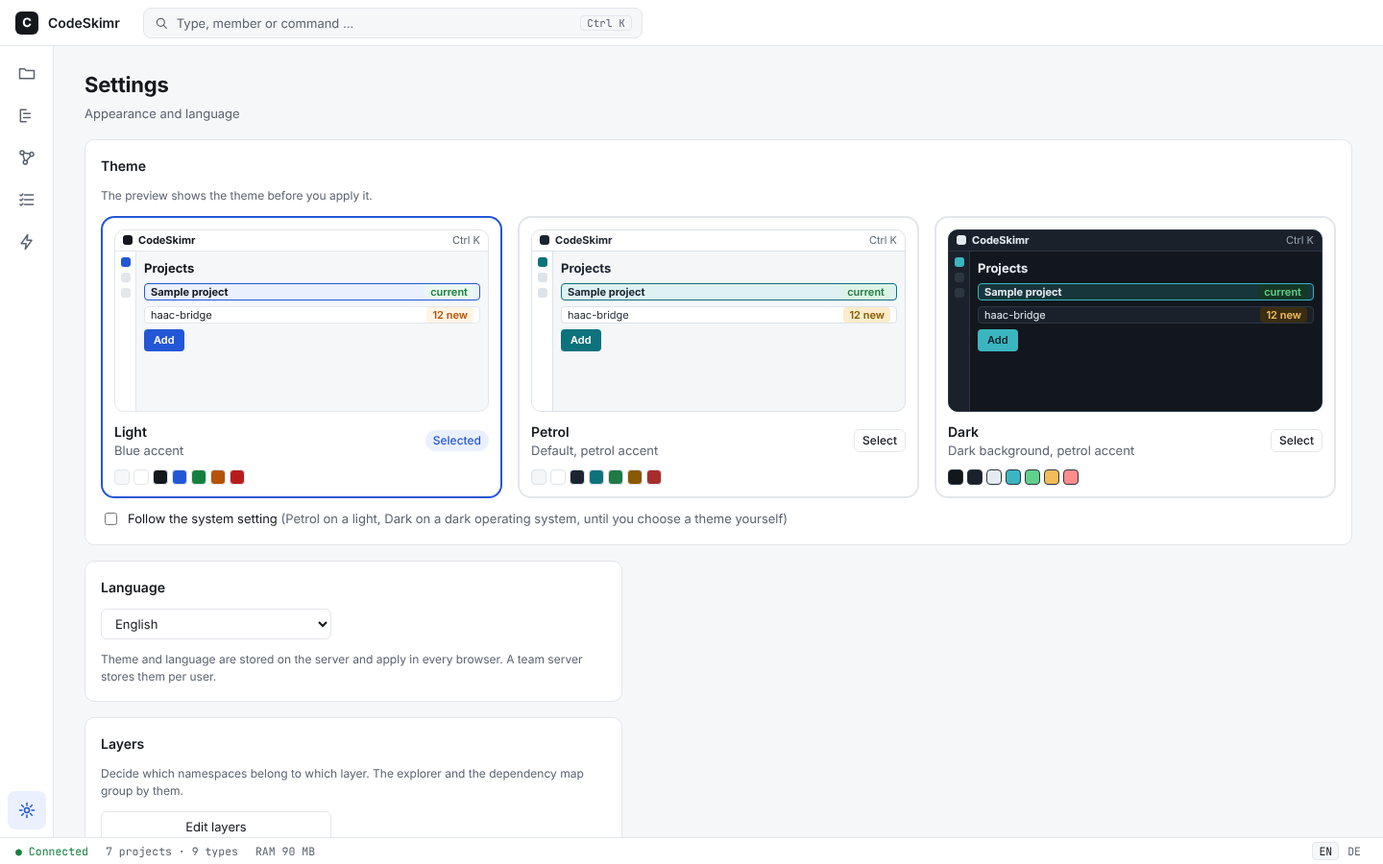
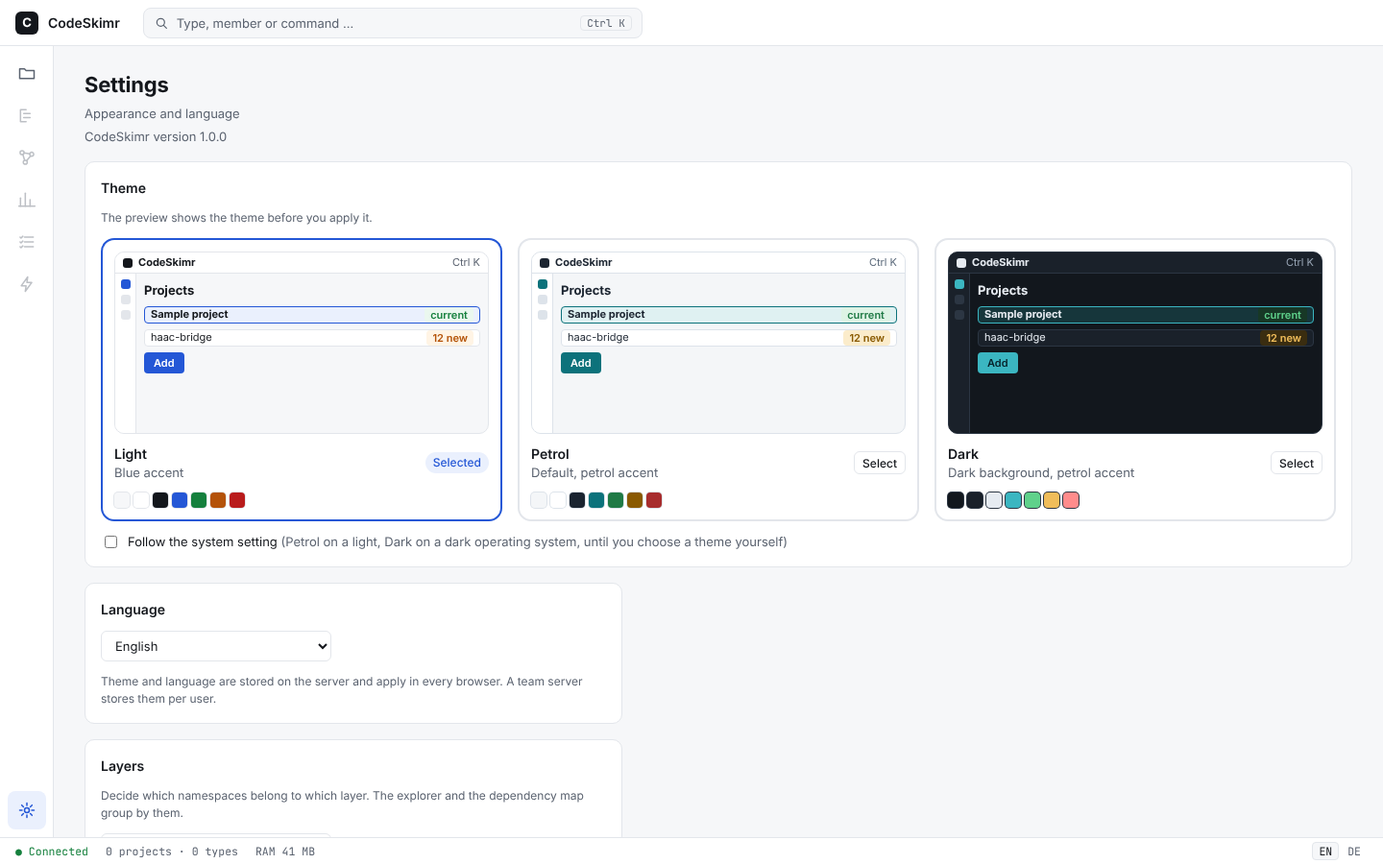
feat(ui): show the program version on the settings screen (#697)
<!-- claude-projects-attribution: {"github_login":"stacknoise"} -->
_Requested by **Anton** · [project
thread](https://claude.ai/code/project/chan_01BurfeyeHWcU615RsoB5poQ?thread=cmsg_01BurfeyeHWcU615RsoB5poQF3sCpakFDpofmNJyMDMRdh)_

## Was ändert sich und warum?

Bisher zeigte nur die Konsole, welche Version läuft (`codeskimr
--version`). Gerade beim Testen der rc-Versionen ist das im UI
hilfreich. Der Bildschirm „Einstellungen“ zeigt jetzt unter der
Überschrift eine Zeile „CodeSkimr-Version 1.0.0“ (Lücke 7 aus ADR 0092).

Closes #690

Technisch: Der Befehl `status.info` liefert zusätzlich `version`. ADR
0092 führt die Lücke jetzt unter „vor 1.0“ statt „nach 1.0“; deshalb das
Label `blueprint-change`.

## So probierst du es aus

CodeSkimr starten, links unten auf „Einstellungen“ klicken. Unter
„Darstellung und Sprache“ steht die Version.

## Screenshots (bei UI-Änderungen, mit Mock-Vergleich)

Mock 13 (`docs/mocks/Themes.dc.html`) hat die Zeile bekommen, die Bilder
`docs/screenshots/visual/settings-*.png` sind nach dem Zusammenführen
mit `main` neu erzeugt.

![Einstellungen mit Versionszeile,
Petrol](https://raw.githubusercontent.com/stacknoise/CodeSkimr/1920beb/docs/screenshots/visual/settings-petrol.png)

## Neue Fehlercodes

Keine.

## Neue Abhängigkeiten (mit einem Satz Begründung)

Keine.

## Benchmark-Delta

Keins betroffen.

## Definition of Done (Blueprint 18.4)

- [x] Regeln aus Abschnitt 3 eingehalten, CI grün
- [x] Tests auf der richtigen Ebene vorhanden
[…]

diff --git a/docs/mocks/Themes.dc.html b/docs/mocks/Themes.dc.html
@@ -88,7 +88,7 @@ tr.sel td{background:var(--accent-bg)}
 </header>
 <div class="body">
   <nav class="rail" aria-label="Ansichten"><a href="Main.dc.html" class="rb" aria-label="Projekte"><svg width="20" height="20" viewBox="0 0 24 24" fill="none" stroke="currentColor" stroke-width="1.8" stroke-linejoin="round" aria-hidden="true"><path d="M3 7h6l2 2h10v10H3z"/></svg></a><a href="Explorer.dc.html" class="rb" aria-label="Explorer"><svg width="20" height="20" viewBox="0 0 24 24" fill="none" stroke="currentColor" stroke-width="1.8" stroke-linejoin="round" aria-hidden="true"><path d="M4 5h7M8 10h8M8 15h8M4 20h7M4 5v15" stroke-linecap="round"/></svg></a><a href="Graph.dc.html" class="rb" aria-label="Abhängigkeiten"><svg width="20" height="20" viewBox="0 0 24 24" fill="none" stroke="currentColor" stroke-width="1.8" stroke-linejoin="round" aria-hidden="true"><circle cx="6" cy="6" r="2.5"/><circle cx="18" cy="8" r="2.5"/><circle cx="12" cy="18" r="2.5"/><path d="M8 7l8 1M7 8l4 8M17 10l-4 6"/></svg></a><a href="Scan.dc.html" class="rb" aria-label="Scans und Leistung"><svg width="20" height="20" viewBox="0 0 24 24" fill="none" stroke="currentColor" stroke-width="1.8" stroke-linejoin="round" aria-hidden="true"><path d="M13 3L5 14h6l-1 7 8-11h-6z"/></svg></a><div style="flex:1"></div><a href="Users.dc.html" class="rb" aria-label="Verwaltung"><svg width="20" height="20" viewBox="0 0 24 24" fill="none" stroke="currentColor" stroke-width="1.8" stroke-linejoin="round" aria-hidden="true"><path d="M12 3l8 3v6c0 4.5-3.4 8-8 9-4.6-1-8-4.5-8-9V6z"/><path d="M9 12l2 2 4-4" stroke-linecap="round"/></svg></a><a href="Themes.dc.html" class="rb on" aria-label="Einstellungen"><svg width="20" height="20" viewBox="0 0 24 24" fill="none" stroke="currentColor" stroke-width="1.8" stroke-linejoin="round" aria-hidden="true"><circle cx="12" cy="12" r="3"/><path d="M12 3v3M12 18v3M3 12h3M18 12h3M5.6 5.6l2.1 2.1M16.3 16.3l2.1 2.1M18.4 5.6l-2.1 2.1M7.7 16.3l-2.1 2.1" stroke-linecap="round"/></svg></a></nav>
-  <main class="main"><div class="row" style="align-items:flex-end"><div><h1>Einstellungen</h1><p class="sub">Darstellung und Sprache</p></div><div class="row" style="margin-left:auto"></div></div>
+  <main class="main"><div class="row" style="align-items:flex-end"><div><h1>Einstellungen</h1><p class="sub">Darstellung und Sprache</p><p class="sub">CodeSkimr-Version 1.0.0</p></div><div class="row" style="margin-left:auto"></div></div>
 <div class="panel pad" style="display:flex;flex-direction:column;gap:14px">
  <div><div class="h2">Theme</div><p class="note">Gilt für dein Konto auf jedem Gerät. Die Vorschau zeigt das Theme, bevor du es übernimmst.</p></div>
  <div class="grid" style="grid-template-columns:repeat(auto-fit,minmax(260px,1fr))">

diff --git a/web/src/features/settings/SettingsScreen.test.tsx b/web/src/features/settings/SettingsScreen.test.tsx
@@ -2,6 +2,8 @@ import { fireEvent, render, screen } from "@solidjs/testing-library";
 import { beforeEach, describe, expect, it, vi } from "vitest";
 import { setLanguage } from "../../shared/i18n/i18n";
 import { currentPath } from "../../app/router";
+import { answer, serve, useServerSession } from "../../tests/commands";
+import { refreshStatus } from "../status/status";
 import { SettingsScreen } from "./SettingsScreen";
 
 beforeEach(() => {
@@ -50,5 +52,16 @@ describe("SettingsScreen", () => {
     render(() => <SettingsScreen />);
     fireEvent.click(screen.getByRole("button", { name: "Edit layers" }));
     expect(currentPath()).toBe("/layers");
+  });
+});
+
+describe("the version on the settings screen", () => {
+  useServerSession();
+
+  it("is the one that codeskimr --version prints", async () => {
+    serve({ "status.info": () => answer({ version: "1.2.3" }) });
+    await refreshStatus();
+    render(() => <SettingsScreen />);
+    expect(screen.getByText("CodeSkimr version 1.2.3")).toBeInTheDocument();
   });
 });

diff --git a/web/src/features/settings/SettingsScreen.tsx b/web/src/features/settings/SettingsScreen.tsx
@@ -13,6 +13,7 @@ import { ThemeCard } from "./ThemeCard";
 import { LANGUAGES } from "../../shared/i18n/consts";
 import { CODES_ROUTE, LAYERS_ROUTE } from "../../app/consts";
 import { navigate } from "../../app/router";
+import { statusInfo } from "../status/status";
 
 /** The theme cards and the follow-system switch. */
 function ThemePanel() {
@@ -122,6 +123,11 @@ export function SettingsScreen() {
       <header>
         <h1>{t(I18N_KEYS.SETTINGS_TITLE)}</h1>
         <p class={styles.sub}>{t(I18N_KEYS.SETTINGS_SUBTITLE)}</p>
+        <Show when={statusInfo()?.version}>
+          {(version) => (
+            <p class={styles.sub}>{t(I18N_KEYS.SETTINGS_VERSION, { version: version() })}</p>
+          )}
+        </Show>
       </header>
       <ThemePanel />
       <LanguagePanel />

diff --git a/web/src/features/status/types.ts b/web/src/features/status/types.ts
@@ -2,6 +2,8 @@ import type { BudgetTargets } from "../scan/types";
 
 /** The output of `status.info`. */
 export interface StatusInfo {
+  /** The version of the program, as `codeskimr --version` prints it. */
+  version: string;
   /** Milliseconds from the start of the program until the server answered. */
   startup_ms: number | null;
   /** Memory of the program in megabytes. */

diff --git a/web/src/shared/i18n/keys.ts b/web/src/shared/i18n/keys.ts
@@ -875,6 +875,7 @@ export const I18N_KEYS = {
   NAV_NEEDS_PROJECT: "nav-needs-project",
   SETTINGS_TITLE: "settings-title",
   SETTINGS_SUBTITLE: "settings-subtitle",
+  SETTINGS_VERSION: "settings-version",
   SETTINGS_THEME_TITLE: "settings-theme-title",
   SETTINGS_THEME_NOTE: "settings-theme-note",
   SETTINGS_THEME_NAME_HELL: "settings-theme-name-hell",

diff --git a/crates/app/src/ui_commands/status.rs b/crates/app/src/ui_commands/status.rs
@@ -12,7 +12,9 @@ use codeskimr_application::registry::{Command, CommandDescriptor, CommandId, Req
 use codeskimr_domain::Permission;
 use serde::Serialize;
 
-use super::consts::{BYTES_PER_MEGABYTE, STATUS_DESCRIPTION, STATUS_INFO, STATUS_TITLE};
+use super::consts::{
+    BYTES_PER_MEGABYTE, PROGRAM_VERSION, STATUS_DESCRIPTION, STATUS_INFO, STATUS_TITLE,
+};
 
 static STARTED: OnceLock<Instant> = OnceLock::new();
 static READY: OnceLock<Duration> = OnceLock::new();
@@ -32,6 +34,8 @@ pub fn mark_ready() {
 /// The measurements of the status bar.
 #[derive(Debug, Clone, Copy, PartialEq, Eq, Serialize)]
 pub struct StatusOut {
+    /// The version of the program, the one `codeskimr --version` prints (ADR 0092, gap 7).
+    pub version: &'static str,
     /// Milliseconds from the start of the program until the server answered; `None` if it was
     /// not measured (the server of a test).
     pub startup_ms: Option<u64>,
@@ -113,6 +117,7 @@ impl Command for StatusInfo {
     fn execute(&self, request: Request<'_, Self>) -> Result<StatusOut, CodedError> {
         access::require(request.principal, Permission::Read)?;
         Ok(StatusOut {
+            version: PROGRAM_VERSION,
             startup_ms: startup_ms(),
             memory_mb: memory_mb(),
             budgets: self.budgets,

diff --git a/crates/app/src/ui_commands/consts.rs b/crates/app/src/ui_commands/consts.rs
@@ -112,6 +112,8 @@ pub const STATUS_INFO: &str = "status.info";
 pub const STATUS_TITLE: &str = i18n::COMMAND_STATUS_INFO_TITLE;
 /// Description key of `status.info`.
 pub const STATUS_DESCRIPTION: &str = i18n::COMMAND_STATUS_INFO_DESCRIPTION;
+/// The version of the program, as `codeskimr --version` prints it.
+pub const PROGRAM_VERSION: &str = env!("CARGO_PKG_VERSION");
 /// Bytes in a megabyte, for the memory shown in the status bar.
 pub const BYTES_PER_MEGABYTE: u64 = 1_048_576;
 

diff --git a/crates/app/src/ui_commands/tests.rs b/crates/app/src/ui_commands/tests.rs
@@ -702,6 +702,7 @@ fn the_status_reports_the_memory_of_the_program() {
     assert!(status["memory_mb"].as_u64().unwrap() > 0);
     assert!(status.get("startup_ms").is_some());
     assert!(status["workers"].as_u64().unwrap() >= 1);
+    assert_eq!(status["version"], env!("CARGO_PKG_VERSION"));
     assert_eq!(status["budgets"]["cold_start"], 300);
     assert_eq!(status["budgets"]["incremental_rescan"], 300);
 }

diff --git a/docs/server.md b/docs/server.md
@@ -121,7 +121,7 @@ The server holds at most 256 connections; a further client waits in the backlog 
 
 ## Known limits
 
-- The commands of the UI are registered in `crates/app/src/ui_commands/` (`command_api`): `projects.list` (read), `projects.add` (register_project, scan), `projects.rescan` (scan), `projects.cancel` (scan), `projects.remove` (register_project), `projects.folder_dialog` (read) and `projects.pick_folder` (register_project), `credentials.list` (read_source, the token), `credentials.set` and `credentials.delete` (both register_project), `explorer.outline` and `explorer.symbol` (both read), `search.query` (read), `status.info` (read), `usages.query` (read), `explorer.source` (read_source), `usages.code` (read_source), `graph.layers` (read), `layers.get` (read), `layers.set` (manage), and the annotation and alert commands of ADR 0068 (`annotations.*` and `alerts.*`, see below). Feature packages add theirs there. `layers.get` takes a project id and returns `editable` (a folder project), `scanned`, `layers` (`name`, `namespaces`) and `namespaces` of the newest scan (`name`, `types`, `layer`); `layers.set` takes a project id and the full list of `layers`, replaces the `[[layers]]` tables of the folder's `.codeskimr.toml` (ADR 0065) and answers the number of layers; it refuses a Git project with `PRJ-101`, invalid layers with `CFG-101`, an unreadable or invalid file with `CFG-102` and a failed write with `CFG-104`; the layers apply from the next scan. `explorer.outline` takes a project id and returns the layers, namespaces and types of its newest snapshot (the layers of the project; types that belong to none come last with an empty layer name). The answer is short on purpose (#651): a namespace names its most common `language` once, and a type or the file `module` of a namespace leaves out `language` when it is that one, and `qualified_name` when it is the namespace name, a dot and its name (for the module: the namespace name itself; an empty namespace: the name alone); `types` and `holders` are left out when empty and `file` when false. A client puts the fields back by these rules; a field that is present always counts; `explorer.symbol` takes a project id and a symbol id and returns the symbol with `layer` (the name of the layer of the project that owns it, `null` if none does), breadcrumb, metrics (with a rating against the configured thresholds) and member table. An unknown symbol is `MCP-202`. A project without a scan gives `explorer.outline` an empty outline with `snapshot: null`, and `explorer.symbol` the error `MCP-203`. `projects.add` takes an absolute folder path or a Git address without credentials, and for a Git source optionally `credential`, the name of a stored login (`credentials.set`; a folder, an empty name or the installation token gives `PRJ-101`); `projects.rescan` a project id; both take the optional `level2` (`false` scans level 1 only) and answer `level2` with `state` (`started`, `not_started` or `not_requested`) and `reason` (`not_permitted`, `not_confirmed`, `busy` or `paused`; ADR 0072): the call returns after level 1 and, if level 2 started, a background task continues with it, still counted as a running scan (`PRJ-302` for a second scan, `projects.cancel` stops it and keeps level 1). The permission and the consent are checked again when the run starts; at most `level2.max_parallel_runs` runs go on at the same time and the same project waits `level2.ui_cooldown_seconds` after a run. Both run the scan on the thread of the call, publish progress on the event bus of the WebSocket and refuse a second scan of the same project with `PRJ-302`. `projects.list` gives every project the files its newest scan left out as `left_out` (`path`, `code`, `kept`; at most `scan.max_left_out_listed`) and `left_out_more` (how many more there were; ADR 0085), and every language of a project `files`, `loc`, `symbols` (the symbols of its files in the newest snapshot) and `tier` (`full` or `basic`, read from the manifest of the installed pack, `null` if there is none). `search.query` takes a project id and a text and returns at most 50 hits of the newest scan, best first, each with kind, qualified name, file, the enclosing symbol and the `project` and `project_name` it belongs to, `files` (at most 10 files whose path matches the text, best first: `path`, `loc`, `first_type` and the project; only files that declare a type) and `entries`, the number of symbols the scan holds (`null` before the first scan); a project without a scan or an empty text gives empty lists. With `all_projects: true` it searches the newest scan of every registered project (`project` is then ignored; projects without a scan are skipped), and each project gets a share of the 50 hits, at least 5. `explorer.source` takes a project id and a symbol id (type or member) and returns the lines of its declaration as they are in the project folder now (`path`, `first_line`, `last_line`, `lines`, `truncated` after 400 lines, `available`) and `spans`: the places in those lines where a symbol is named (`line` counted from 0 within `lines`, `start` and `end` in UTF-16 units, `symbol`), taken from the one-line references of the scan; a place that does not fit its line, because the file changed since the scan, is left out; at most 4000; and `tokens`, the runs of the lines that have a syntax colour (`line`, `start`, `end` as for `spans`, `class` one of `comment`, `string`, `number`, `keyword`, `type`, `function`, `attribute`; ADR 0064; empty for a language without `highlights.scm`). It needs `read_source` and the token (ADR 0035); a Git project answers `available: false` without lines; a file that is gone, outside the project folder or not a file is `SRC-201`, a file over 4 MiB `SRC-501`. `graph.layers` takes a project id and an optional `level` (`layers`, the default, `namespaces` or `types`, see `docs/graph-layout.md`) and, for the level `namespaces`, an optional `depth` (merge the namespaces into their first `depth` segments; 0 or left out keeps them all) and returns the dependency map of its newest snapshot as a picture: `boxes` (one per layer or, on the level `namespaces`, per namespace, with `name`, `x`, `y`, `width`, `height`, `rank`, `order`, `layer` and `types`), `links` (`from`, `to`, `count`, `violates_layering`, `in_cycle`), `bands` (the stripe of every layer row) and the size of the picture (`width`, `height`). The layers keep the order of the project's `layers` setting, outer layers first, one row each (ADR 0031); a layer that only the scan's edges name is added after them. On the level `types` the input needs `focus`, the symbol id of a type: the answer has three rows of boxes (the types that use the focus on top, the focus in the middle, the types it uses below; at most 12 per side, the rest is counted in `focus.users_more` and `focus.used_more`), each with `symbol`, links from the users to the focus and from the focus to what it uses, counted by references; references inside the type are left out, and `bands` is empty. A missing focus or a symbol that is no type is `MCP-202`. A project without a scan or without layers gives an empty picture (`snapshot: null` before the first scan). The positions come from the layered layout in Rust (`docs/graph-layout.md`); spacing and box size are the `[graph]` settings. `usages.query` takes a project id, a symbol id, `way` (`both`, `incoming` or `outgoing`), `depth` (0 means as deep as `mcp.max_depth` allows, larger values are cut to it) and `include_tests`, and returns the symbol, the `incoming` and `outgoing` walks (at most 500 hits each; `null` for a direction that was not asked), a `summary` of the direct usages, the `impact` of a change (symbols reached, layers, public interfaces) and `level2`. Every hit carries `verified`: `true` only if level 2 produced it (an indexer of ADR 0033 ran, with the owner's confirmation, and checked its file); `summary` counts verified and unchecked hits apart, `probable` counts the unchecked ones that level 1 itself is unsure about, and `level2` is `"active"` if at least one direct usage of the answer is verified and `"unavailable"` otherwise, which tells the UI that level 2 checked none of the hits of this symbol. Hits are sorted verified first. Errors as for `explorer.symbol`: `MCP-202` for an unknown symbol, `MCP-203` without a scan. The command needs only the read right, because it hands out no source text. `usages.code` takes the same input and returns `available` and `lines` (`path`, `line`, `text`): the code line of each distinct place of the first 200 hits of both walks, read from the project folder as it is now, trimmed and cut at 240 characters. It needs `read_source` and the token (ADR 0035); the paths come from the index, never from the caller; a Git project answers `available: false`; a place whose file or line is gone is left out. `status.info` takes nothing and returns `startup_ms` (program start until the server answers, `null` if not measured) and `memory_mb` (physical memory of the process, `null` if the system does not tell), `budgets` and `workers` (threads of the analyze stage: one per core the system offers). `projects.cancel` takes a project id and asks its running scan to stop at the next stage boundary; it answers `{ "cancelled": true }`, or `false` if no scan of the project is running (or it has not started yet). The scan then ends without a snapshot: the stream carries `scan_stopped` with `reason: cancelled`, and the call that started the scan (`projects.add`, `projects.rescan`) answers `PRJ-303`. `projects.folder_dialog` takes nothing and answers `{ "available": bool }`: whether the app can show the folder dialog of the operating system on its machine (Windows and macOS; ADR 0075). `projects.pick_folder` takes nothing, shows that dialog, waits and answers `{ "path": "<folder>" }`, or `{ "path": null }` if the user cancelled, no dialog exists here or another one is open; it needs the right to register projects and the token, like `projects.add`, and is no MCP tool. It reads nothing in the folder; the path is only text for `projects.add`. `projects.remove` takes a project id and deletes the project with everything the app stored about it, in one database transaction: all snapshots with their files, symbols, references, metrics and read models, the layers, the level 2 confirmation, the tool reports and the annotations with their alerts; it answers `{ "project": <id> }`. It needs the right to register projects and the token, like `projects.add`, and is no MCP tool. It never touches the files of a folder project. For a Git project it deletes the clone that the app made in its own data folder (`git/<hash of address and branch>`); if the clone cannot be deleted, the project is gone anyway and the failure is logged. Stored credentials stay, because other projects may use the same login. An unknown id is `PRJ-201`; while a scan of the project runs (a level 2 run is part of a scan) it is refused with `PRJ-302`, and while it runs no scan of the project can start. After it, the project can be registered again; it then starts with a full scan. A relative folder path is refused with `PRJ-101`, so the working folder of the server never decides what is scanned.
+- The commands of the UI are registered in `crates/app/src/ui_commands/` (`command_api`): `projects.list` (read), `projects.add` (register_project, scan), `projects.rescan` (scan), `projects.cancel` (scan), `projects.remove` (register_project), `projects.folder_dialog` (read) and `projects.pick_folder` (register_project), `credentials.list` (read_source, the token), `credentials.set` and `credentials.delete` (both register_project), `explorer.outline` and `explorer.symbol` (both read), `search.query` (read), `status.info` (read), `usages.query` (read), `explorer.source` (read_source), `usages.code` (read_source), `graph.layers` (read), `layers.get` (read), `layers.set` (manage), and the annotation and alert commands of ADR 0068 (`annotations.*` and `alerts.*`, see below). Feature packages add theirs there. `layers.get` takes a project id and returns `editable` (a folder project), `scanned`, `layers` (`name`, `namespaces`) and `namespaces` of the newest scan (`name`, `types`, `layer`); `layers.set` takes a project id and the full list of `layers`, replaces the `[[layers]]` tables of the folder's `.codeskimr.toml` (ADR 0065) and answers the number of layers; it refuses a Git project with `PRJ-101`, invalid layers with `CFG-101`, an unreadable or invalid file with `CFG-102` and a failed write with `CFG-104`; the layers apply from the next scan. `explorer.outline` takes a project id and returns the layers, namespaces and types of its newest snapshot (the layers of the project; types that belong to none come last with an empty layer name). The answer is short on purpose (#651): a namespace names its most common `language` once, and a type or the file `module` of a namespace leaves out `language` when it is that one, and `qualified_name` when it is the namespace name, a dot and its name (for the module: the namespace name itself; an empty namespace: the name alone); `types` and `holders` are left out when empty and `file` when false. A client puts the fields back by these rules; a field that is present always counts; `explorer.symbol` takes a project id and a symbol id and returns the symbol with `layer` (the name of the layer of the project that owns it, `null` if none does), breadcrumb, metrics (with a rating against the configured thresholds) and member table. An unknown symbol is `MCP-202`. A project without a scan gives `explorer.outline` an empty outline with `snapshot: null`, and `explorer.symbol` the error `MCP-203`. `projects.add` takes an absolute folder path or a Git address without credentials, and for a Git source optionally `credential`, the name of a stored login (`credentials.set`; a folder, an empty name or the installation token gives `PRJ-101`); `projects.rescan` a project id; both take the optional `level2` (`false` scans level 1 only) and answer `level2` with `state` (`started`, `not_started` or `not_requested`) and `reason` (`not_permitted`, `not_confirmed`, `busy` or `paused`; ADR 0072): the call returns after level 1 and, if level 2 started, a background task continues with it, still counted as a running scan (`PRJ-302` for a second scan, `projects.cancel` stops it and keeps level 1). The permission and the consent are checked again when the run starts; at most `level2.max_parallel_runs` runs go on at the same time and the same project waits `level2.ui_cooldown_seconds` after a run. Both run the scan on the thread of the call, publish progress on the event bus of the WebSocket and refuse a second scan of the same project with `PRJ-302`. `projects.list` gives every project the files its newest scan left out as `left_out` (`path`, `code`, `kept`; at most `scan.max_left_out_listed`) and `left_out_more` (how many more there were; ADR 0085), and every language of a project `files`, `loc`, `symbols` (the symbols of its files in the newest snapshot) and `tier` (`full` or `basic`, read from the manifest of the installed pack, `null` if there is none). `search.query` takes a project id and a text and returns at most 50 hits of the newest scan, best first, each with kind, qualified name, file, the enclosing symbol and the `project` and `project_name` it belongs to, `files` (at most 10 files whose path matches the text, best first: `path`, `loc`, `first_type` and the project; only files that declare a type) and `entries`, the number of symbols the scan holds (`null` before the first scan); a project without a scan or an empty text gives empty lists. With `all_projects: true` it searches the newest scan of every registered project (`project` is then ignored; projects without a scan are skipped), and each project gets a share of the 50 hits, at least 5. `explorer.source` takes a project id and a symbol id (type or member) and returns the lines of its declaration as they are in the project folder now (`path`, `first_line`, `last_line`, `lines`, `truncated` after 400 lines, `available`) and `spans`: the places in those lines where a symbol is named (`line` counted from 0 within `lines`, `start` and `end` in UTF-16 units, `symbol`), taken from the one-line references of the scan; a place that does not fit its line, because the file changed since the scan, is left out; at most 4000; and `tokens`, the runs of the lines that have a syntax colour (`line`, `start`, `end` as for `spans`, `class` one of `comment`, `string`, `number`, `keyword`, `type`, `function`, `attribute`; ADR 0064; empty for a language without `highlights.scm`). It needs `read_source` and the token (ADR 0035); a Git project answers `available: false` without lines; a file that is gone, outside the project folder or not a file is `SRC-201`, a file over 4 MiB `SRC-501`. `graph.layers` takes a project id and an optional `level` (`layers`, the default, `namespaces` or `types`, see `docs/graph-layout.md`) and, for the level `namespaces`, an optional `depth` (merge the namespaces into their first `depth` segments; 0 or left out keeps them all) and returns the dependency map of its newest snapshot as a picture: `boxes` (one per layer or, on the level `namespaces`, per namespace, with `name`, `x`, `y`, `width`, `height`, `rank`, `order`, `layer` and `types`), `links` (`from`, `to`, `count`, `violates_layering`, `in_cycle`), `bands` (the stripe of every layer row) and the size of the picture (`width`, `height`). The layers keep the order of the project's `layers` setting, outer layers first, one row each (ADR 0031); a layer that only the scan's edges name is added after them. On the level `types` the input needs `focus`, the symbol id of a type: the answer has three rows of boxes (the types that use the focus on top, the focus in the middle, the types it uses below; at most 12 per side, the rest is counted in `focus.users_more` and `focus.used_more`), each with `symbol`, links from the users to the focus and from the focus to what it uses, counted by references; references inside the type are left out, and `bands` is empty. A missing focus or a symbol that is no type is `MCP-202`. A project without a scan or without layers gives an empty picture (`snapshot: null` before the first scan). The positions come from the layered layout in Rust (`docs/graph-layout.md`); spacing and box size are the `[graph]` settings. `usages.query` takes a project id, a symbol id, `way` (`both`, `incoming` or `outgoing`), `depth` (0 means as deep as `mcp.max_depth` allows, larger values are cut to it) and `include_tests`, and returns the symbol, the `incoming` and `outgoing` walks (at most 500 hits each; `null` for a direction that was not asked), a `summary` of the direct usages, the `impact` of a change (symbols reached, layers, public interfaces) and `level2`. Every hit carries `verified`: `true` only if level 2 produced it (an indexer of ADR 0033 ran, with the owner's confirmation, and checked its file); `summary` counts verified and unchecked hits apart, `probable` counts the unchecked ones that level 1 itself is unsure about, and `level2` is `"active"` if at least one direct usage of the answer is verified and `"unavailable"` otherwise, which tells the UI that level 2 checked none of the hits of this symbol. Hits are sorted verified first. Errors as for `explorer.symbol`: `MCP-202` for an unknown symbol, `MCP-203` without a scan. The command needs only the read right, because it hands out no source text. `usages.code` takes the same input and returns `available` and `lines` (`path`, `line`, `text`): the code line of each distinct place of the first 200 hits of both walks, read from the project folder as it is now, trimmed and cut at 240 characters. It needs `read_source` and the token (ADR 0035); the paths come from the index, never from the caller; a Git project answers `available: false`; a place whose file or line is gone is left out. `status.info` takes nothing and returns `version` (the version of the program, as `codeskimr --version` prints it), `startup_ms` (program start until the server answers, `null` if not measured) and `memory_mb` (physical memory of the process, `null` if the system does not tell), `budgets` and `workers` (threads of the analyze stage: one per core the system offers). `projects.cancel` takes a project id and asks its running scan to stop at the next stage boundary; it answers `{ "cancelled": true }`, or `false` if no scan of the project is running (or it has not started yet). The scan then ends without a snapshot: the stream carries `scan_stopped` with `reason: cancelled`, and the call that started the scan (`projects.add`, `projects.rescan`) answers `PRJ-303`. `projects.folder_dialog` takes nothing and answers `{ "available": bool }`: whether the app can show the folder dialog of the operating system on its machine (Windows and macOS; ADR 0075). `projects.pick_folder` takes nothing, shows that dialog, waits and answers `{ "path": "<folder>" }`, or `{ "path": null }` if the user cancelled, no dialog exists here or another one is open; it needs the right to register projects and the token, like `projects.add`, and is no MCP tool. It reads nothing in the folder; the path is only text for `projects.add`. `projects.remove` takes a project id and deletes the project with everything the app stored about it, in one database transaction: all snapshots with their files, symbols, references, metrics and read models, the layers, the level 2 confirmation, the tool reports and the annotations with their alerts; it answers `{ "project": <id> }`. It needs the right to register projects and the token, like `projects.add`, and is no MCP tool. It never touches the files of a folder project. For a Git project it deletes the clone that the app made in its own data folder (`git/<hash of address and branch>`); if the clone cannot be deleted, the project is gone anyway and the failure is logged. Stored credentials stay, because other projects may use the same login. An unknown id is `PRJ-201`; while a scan of the project runs (a level 2 run is part of a scan) it is refused with `PRJ-302`, and while it runs no scan of the project can start. After it, the project can be registered again; it then starts with a full scan. A relative folder path is refused with `PRJ-101`, so the working folder of the server never decides what is scanned.
 - No OpenAPI document and no generated TypeScript client yet (needs `utoipa` and real command types, see ADR 0024).
 - The UI is part of the program: `build.rs` of the `codeskimr` crate embeds the files of `web/dist` as they are when the program is built (`npm run build` in `web/` first; without it the program has no UI). A folder `ui.dir` that exists wins over the embedded files, so a UI under development can be tried without rebuilding. The embedded files follow the same path rules as a folder. Build order: `web/` first, then the program; without a built UI the build only warns and the program has no UI (release flow: #192). `codeskimr export` takes the export page the same way: from `ui.dir` if the folder exists, else from the embedded files.
 - On Windows and macOS the bare `codeskimr` starts a copy of itself in the system tray and ends (ADR 0067): no console window, a tray icon with the menu *Open CodeSkimr*, *Show log* and *Quit CodeSkimr*, the log in `codeskimr.log` in the data folder (empty at every start). `--console` and all other systems keep what follows.

diff --git a/docs/ui.md b/docs/ui.md
@@ -150,7 +150,7 @@ Two Playwright files check the screens against blueprint 15.4 and 17.1; both run
 - What the check found and fixed: the side column of the scan screen was 340 px wide instead of 300; the quick search was 860 px wide and 12 vh from the top instead of 880 px and 96 px, its input row was not 56 px high, its preview column was 260 px instead of 320 px and the active chip was blue instead of black; the frame grew with long content, so the status bar left the screen (the mocks scroll the main area only). The acceptance run of M3 (`docs/acceptance/m3.md`) found one more: with many hits the quick search shrank its input row to 27 px; the test now searches with 40 hits.
 - Not covered by a landmark: the names in the code (`Alt+click`) and the file and all-project hits of the quick search; unit tests of the screens cover them.
 - Error codes (mock `ErrorCodes.html`, no number): the counterpart of `codeskimr codes`, reached from the settings (route `/codes`, no button in the rail). It reads the generated registry (`ERROR_CODES`) and the messages of `locales/<lang>/errors.ftl` in the browser, so it needs no command. Search by id or message text, filters by severity and group, a click on a row opens the explanation with "Copy details". Retired codes (ADR 0078) are hidden and show only when their id is typed in full, marked as retired, like `codeskimr codes <id>`.
-- Settings (13): the theme card fills the width of the content and the language card is 560 px wide, as in the mock (landmarks tested); the editor card has no mock and is 560 px wide too.
+- Settings (13): the theme card fills the width of the content and the language card is 560 px wide, as in the mock (landmarks tested); the editor card has no mock and is 560 px wide too. Below the subtitle the screen shows the version of the program (`status.info` `version`, the counterpart of `codeskimr --version`, ADR 0092).
 
 ESLint (`web/eslint.literals.config.js`, issue #26): `consts.ts` is free of the literal rules only as the value of a `const`; `let`, `var`, other statements and function bodies are refused there. A number above 1 is refused everywhere else even when it is assigned to a `const` (`no-magic-numbers` alone lets that pass). `web/src/tests/eslint-literals.test.ts` runs the config on snippets.
 

diff --git a/docs/adr/0092-what-the-console-can-do-the-ui-can-do.md b/docs/adr/0092-what-the-console-can-do-the-ui-can-do.md
@@ -33,8 +33,8 @@ Option 3.
   - `serve`, `open`, `mcp`, `--console`, `--data-dir`, `--languages`, and `--config` and `--set` as start options: they decide how and where the program starts, before there is a UI. The UI may show them.
   - `--json`: output for scripts; the counterpart is the REST interface.
   - `--help`: the counterpart is the manual.
-- **Before 1.0:** gap 1 (button "Full scan", `projects.rescan` with `full`), gap 5 (a screen with the list of error codes) and of gap 6 the display of the settings in effect, read only.
-- **After 1.0:** gap 2 (with the background jobs and the live view), gap 3, gap 4 (the extension "Rules"), changing settings in the UI (the rest of gap 6; `--set` at the start stays a start option) and gap 7 (issue #690). Each needs its own package; gaps 2 and 3 need their own ADR.
+- **Before 1.0:** gap 1 (button "Full scan", `projects.rescan` with `full`), gap 5 (a screen with the list of error codes), of gap 6 the display of the settings in effect, read only, and gap 7 (the settings screen shows the version, issue #690; moved here from "after 1.0" on 2026-11-24).
+- **After 1.0:** gap 2 (with the background jobs and the live view), gap 3, gap 4 (the extension "Rules"), and changing settings in the UI (the rest of gap 6; `--set` at the start stays a start option). Each needs its own package; gaps 2 and 3 need their own ADR.
 
 ## Consequences
 

diff --git a/docs/manual/de/installation.md b/docs/manual/de/installation.md
@@ -9,6 +9,7 @@ CodeSkimr wird als **eine einzelne Datei je System** ausgeliefert (Windows x86_6
 1. Datei und `.sha256` herunterladen und die Prüfsumme vergleichen: Windows `Get-FileHash .\codeskimr-<Version>-windows-x86_64.exe -Algorithm SHA256`, Linux `sha256sum -c codeskimr-<Version>-linux-x86_64.sha256`, macOS `shasum -a 256 -c codeskimr-<Version>-macos-aarch64.sha256`.
 2. Optional die Herkunft prüfen: `gh attestation verify <Datei> --repo stacknoise/CodeSkimr` zeigt, dass GitHub die Datei aus diesem Repository gebaut hat.
 3. Starten. Linux und macOS: vorher `chmod +x <Datei>`. Dann `./codeskimr-<Version>-<System> serve`; unter Windows `.\codeskimr-<Version>-windows-x86_64.exe serve`. Sie können die Datei in `codeskimr` umbenennen und in einen Ordner Ihres Suchpfads legen.
+   Welche Version läuft, zeigt `codeskimr --version` in der Konsole und der Bildschirm „Einstellungen“ unter der Überschrift.
 
 Die Dateien sind **noch nicht signiert** (die Signierung kommt als Erstes nach 1.0). Deshalb warnt das Betriebssystem beim ersten Start:
 
